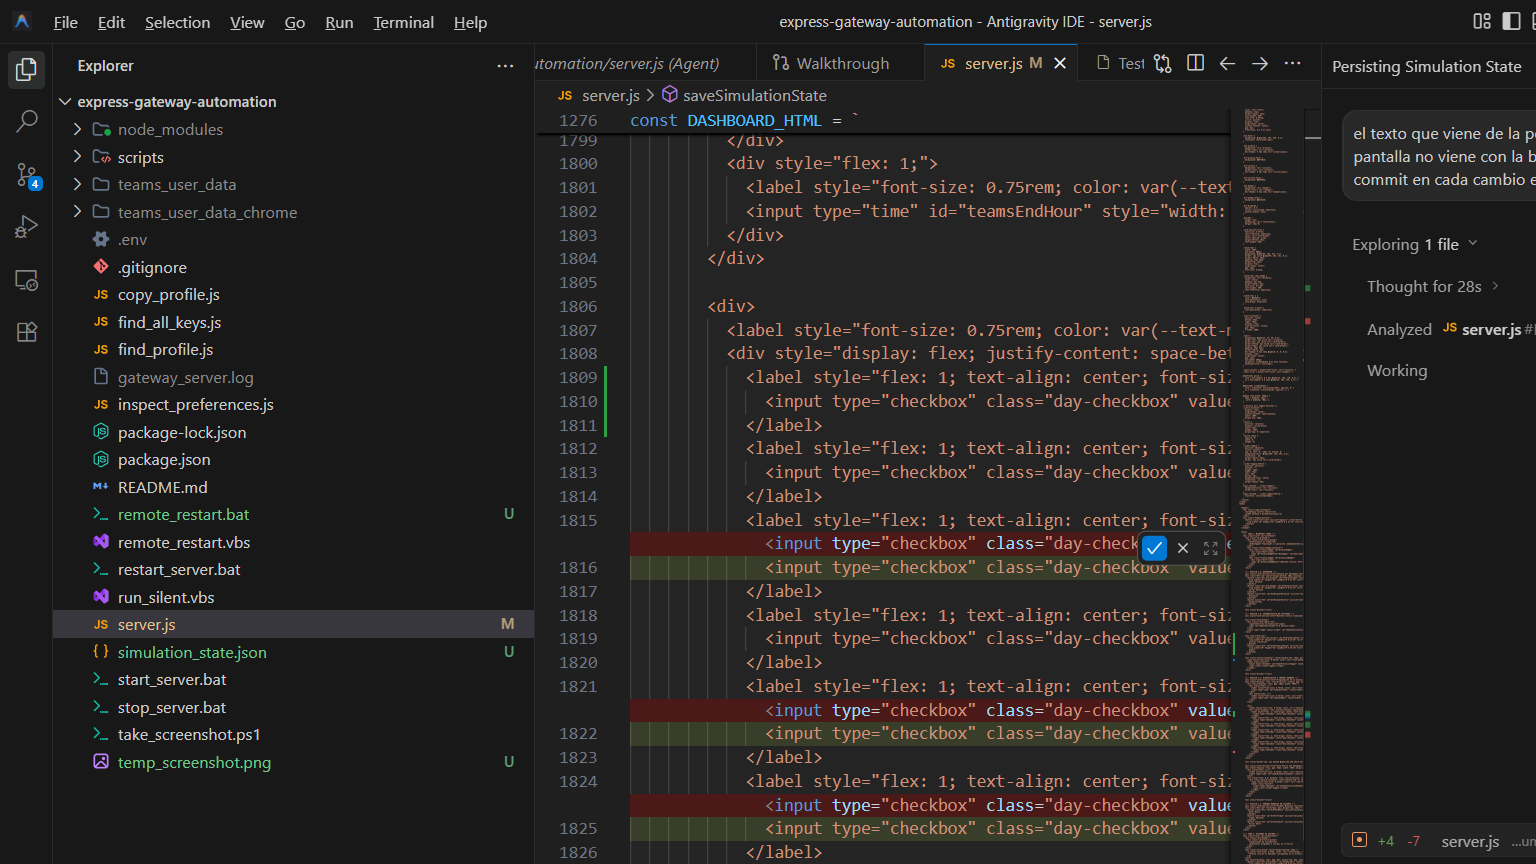
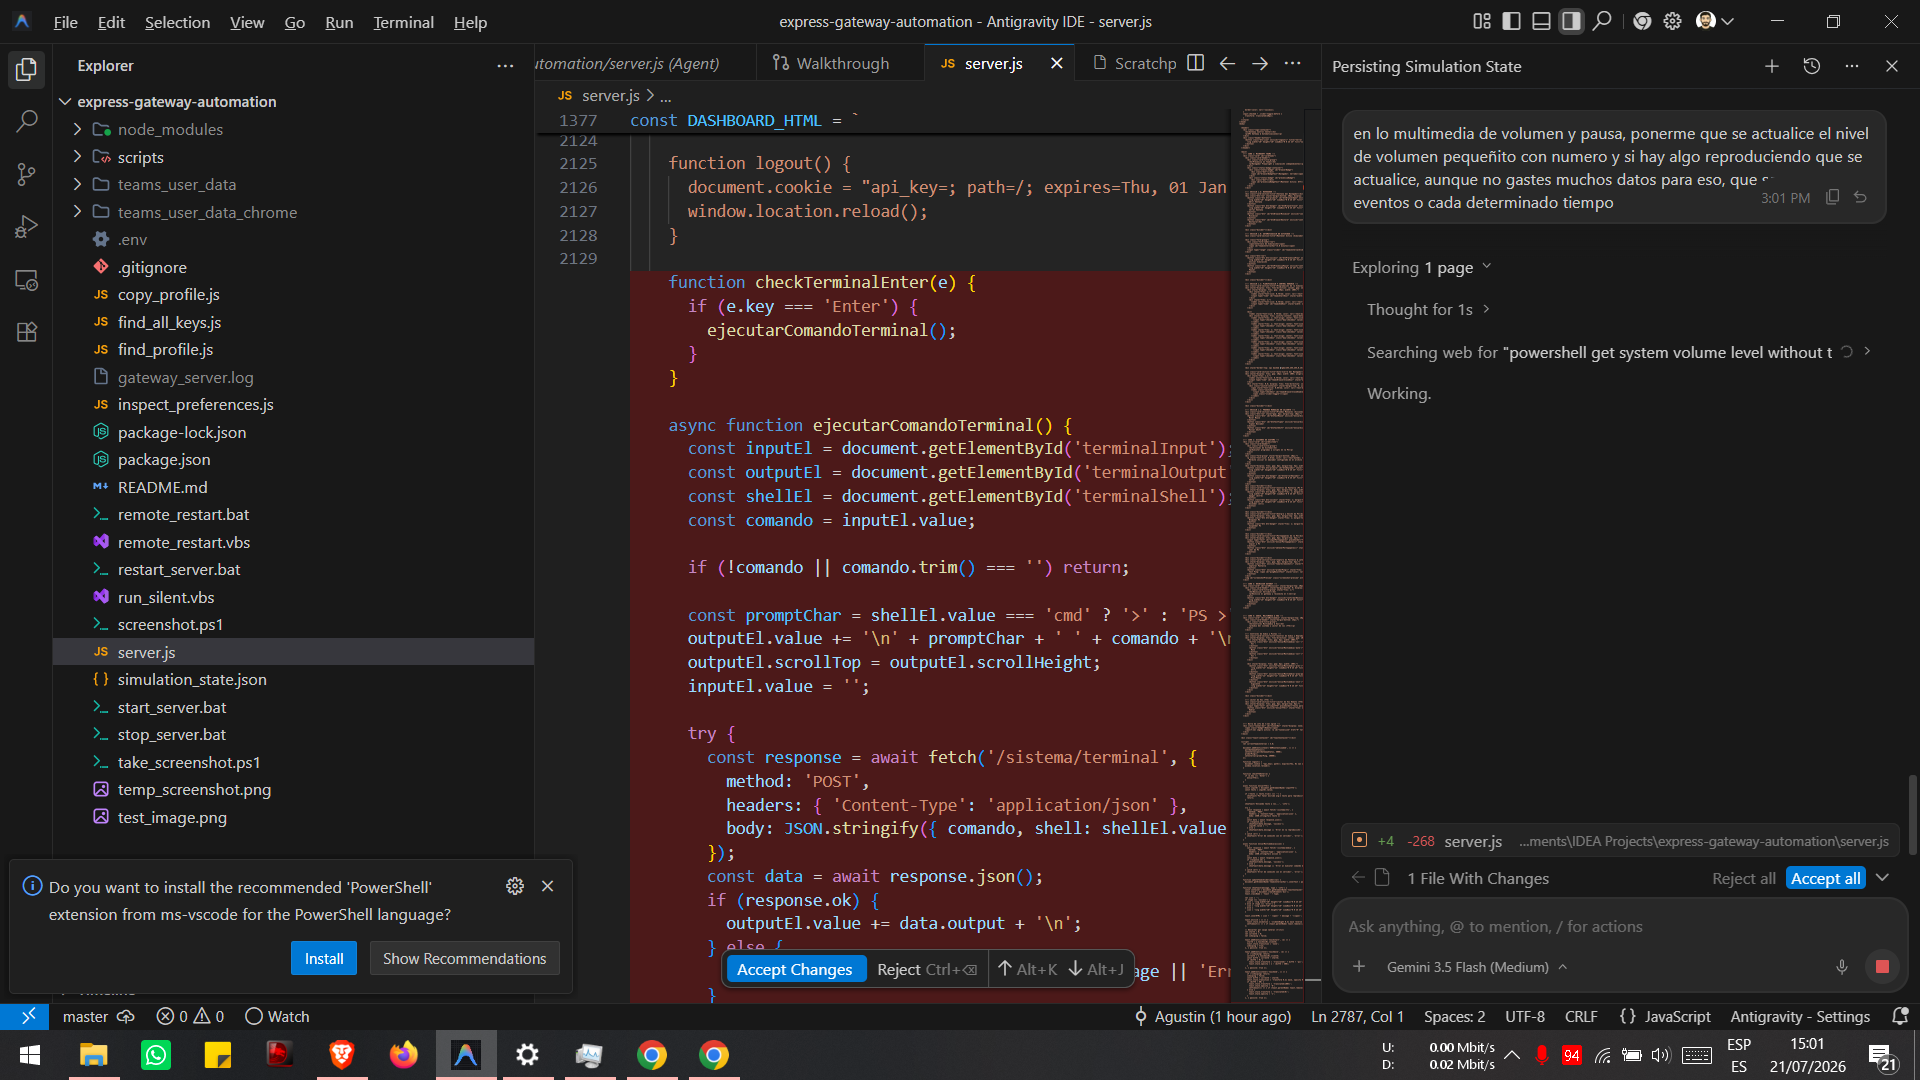
feat: show volume and playing status in multimedia card and improve toast swipe gestures

diff --git a/server.js b/server.js
@@ -338,17 +338,29 @@ function handleManualCloseCleanup() {
 
 // Endpoint GET /gateway/status
 app.get('/gateway/status', (req, res) => {
-  res.json({
-    browserBrowserAbierto,
-    browserPresenciaActiva,
-    browserIntervalMs,
-    browserSimulacionStartHour,
-    browserSimulacionEndHour,
-    browserSimulacionDays,
-    browserBrowserCloseHour,
-    browserBrowserCloseEnabled,
-    ngrokUrl: ngrokUrl || 'Inactivo',
-    hasEmulatorPath: !!process.env.EMULATOR_BAT_PATH
+  const helperPath = path.join(__dirname, 'AudioHelper.exe');
+  exec(`"${helperPath}"`, { timeout: 1500 }, (error, stdout) => {
+    let audioData = { volume: null, muted: null, playing: null };
+    if (!error && stdout) {
+      try {
+        audioData = JSON.parse(stdout.trim());
+      } catch (e) {}
+    }
+    res.json({
+      browserBrowserAbierto,
+      browserPresenciaActiva,
+      browserIntervalMs,
+      browserSimulacionStartHour,
+      browserSimulacionEndHour,
+      browserSimulacionDays,
+      browserBrowserCloseHour,
+      browserBrowserCloseEnabled,
+      ngrokUrl: ngrokUrl || 'Inactivo',
+      hasEmulatorPath: !!process.env.EMULATOR_BAT_PATH,
+      audioVolume: audioData.volume,
+      audioMuted: audioData.muted,
+      audioPlaying: audioData.playing
+    });
   });
 });
 
@@ -2059,7 +2071,10 @@ const DASHBOARD_HTML = `
       </div>
       
       <!-- Controles de Audio y Pistas -->
-      <div class="card-section-title">Control de Audio y Reproducción</div>
+      <div style="display: flex; justify-content: space-between; align-items: center;">
+        <div class="card-section-title" style="margin-bottom: 0;">Control de Audio y Reproducción</div>
+        <div id="audioStatusText" style="font-size: 0.72rem; color: var(--text-muted); font-weight: 500; letter-spacing: 0.3px;">Volumen: --% | --</div>
+      </div>
       <div style="display: flex; flex-direction: column; gap: 10px; margin-top: 8px;">
         <div style="display: flex; gap: 8px; width: 100%;">
           <button class="btn" onclick="enviarMultimedia('vol-')" style="flex: 1; margin-top: 0; padding: 10px; font-size: 0.8rem; background: rgba(255,255,255,0.05); border: 1px solid var(--card-border); color: var(--text);">
@@ -2215,17 +2230,20 @@ const DASHBOARD_HTML = `
         startX = e.touches[0].clientX;
         toast.style.transition = 'none';
         isSwiping = true;
-      }, { passive: true });
+      }, { passive: false });
 
       toast.addEventListener('touchmove', (e) => {
         if (!isSwiping) return;
         currentX = e.touches[0].clientX;
         const diffX = currentX - startX;
         if (diffX > 0) {
+          // Prevenir el scroll y overscroll del navegador para que no mueva la página
+          if (e.cancelable) e.preventDefault();
+          e.stopPropagation();
           toast.style.transform = 'translateX(' + diffX + 'px)';
           toast.style.opacity = 1 - (diffX / 300);
         }
-      }, { passive: true });
+      }, { passive: false });
 
       toast.addEventListener('touchend', () => {
         if (!isSwiping) return;
@@ -2240,7 +2258,7 @@ const DASHBOARD_HTML = `
           toast.style.transform = 'translateX(0)';
           toast.style.opacity = '1';
         }
-      }, { passive: true });
+      }, { passive: false });
 
       container.appendChild(toast);
       
@@ -2379,6 +2397,20 @@ const DASHBOARD_HTML = `
           link.innerText = data.ngrokUrl;
         } else {
           tunnelBar.style.display = 'none';
+        }
+
+        // Actualizar estado de Audio y Reproducción
+        const audioTextEl = document.getElementById('audioStatusText');
+        if (audioTextEl && data.audioVolume !== undefined && data.audioVolume !== null) {
+          const vol = data.audioVolume;
+          const muted = data.audioMuted;
+          const playing = data.audioPlaying;
+          let statusStr = 'Volumen: ' + vol + '%';
+          if (muted) {
+            statusStr += ' (Silenciado)';
+          }
+          statusStr += ' | ' + (playing ? '▶ Reproduciendo' : '⏸ Pausado');
+          audioTextEl.innerText = statusStr;
         }
 
       } catch (err) {

diff --git a/AudioHelper.cs b/AudioHelper.cs
@@ -1,0 +1,81 @@
+using System;
+using System.Runtime.InteropServices;
+
+namespace AudioHelper {
+    [Guid("5CDF2C82-841E-4546-9722-0CF74078229A"), InterfaceType(ComInterfaceType.InterfaceIsIUnknown)]
+    interface IAudioEndpointVolume {
+        int RegisterControlChangeNotify(IntPtr pNotify);
+        int UnregisterControlChangeNotify(IntPtr pNotify);
+        int GetChannelCount(out uint pnChannelCount);
+        int SetMasterVolumeLevel(float fLevelDB, ref Guid pguidEventContext);
+        int SetMasterVolumeLevelScalar(float fLevel, ref Guid pguidEventContext);
+        int GetMasterVolumeLevel(out float pfLevelDB);
+        int GetMasterVolumeLevelScalar(out float pfLevel);
+        int SetChannelVolumeLevel(uint nChannel, float fLevelDB, ref Guid pguidEventContext);
+        int SetChannelVolumeLevelScalar(uint nChannel, float fLevel, ref Guid pguidEventContext);
+        int GetChannelVolumeLevel(uint nChannel, out float pfLevelDB);
+        int GetChannelVolumeLevelScalar(uint nChannel, out float pfLevel);
+        int SetMute([MarshalAs(UnmanagedType.Bool)] bool bMute, ref Guid pguidEventContext);
+        int GetMute([MarshalAs(UnmanagedType.Bool)] out bool pbMute);
+        int GetVolumeStepInfo(out uint pnStep, out uint pnStepCount);
+        int VolumeStepUp(ref Guid pguidEventContext);
+        int VolumeStepDown(ref Guid pguidEventContext);
+        int QueryHardwareSupport(out uint pdwHardwareSupport);
+    }
+
+    [Guid("C02216F6-8C67-4B5B-9786-D5C4DF585117"), InterfaceType(ComInterfaceType.InterfaceIsIUnknown)]
+    interface IAudioMeterInformation {
+        int GetPeakValue(out float pfPeak);
+    }
+
+    [Guid("D666063F-1587-4E43-81F1-B948E807363F"), InterfaceType(ComInterfaceType.InterfaceIsIUnknown)]
+    interface IMMDevice {
+        int Activate(ref Guid id, uint clsCtx, IntPtr activationParams, [MarshalAs(UnmanagedType.IUnknown)] out object value);
+    }
+
+    [Guid("A95664D2-9614-4F35-A746-DE8DB63617E6"), InterfaceType(ComInterfaceType.InterfaceIsIUnknown)]
+    interface IMMDeviceEnumerator {
+        int EnumAudioEndpoints(int dataFlow, uint stateMask, out IntPtr ppDevices);
+        int GetDefaultAudioEndpoint(int dataFlow, int role, out IMMDevice endpoint);
+    }
+
+    [ComImport, Guid("BCDE0395-E52F-467C-8E3D-C4579291692E")]
+    class MMDeviceEnumeratorComObject { }
+
+    class Program {
+        static void Main() {
+            try {
+                var enumerator = new MMDeviceEnumeratorComObject() as IMMDeviceEnumerator;
+                IMMDevice dev;
+                enumerator.GetDefaultAudioEndpoint(0, 1, out dev);
+
+                object volObj;
+                var volId = new Guid("5CDF2C82-841E-4546-9722-0CF74078229A");
+                dev.Activate(ref volId, 23, IntPtr.Zero, out volObj);
+                var volumeEndpoint = volObj as IAudioEndpointVolume;
+
+                float volLevel = 0;
+                volumeEndpoint.GetMasterVolumeLevelScalar(out volLevel);
+                bool isMuted = false;
+                volumeEndpoint.GetMute(out isMuted);
+
+                object meterObj;
+                var meterId = new Guid("C02216F6-8C67-4B5B-9786-D5C4DF585117");
+                dev.Activate(ref meterId, 23, IntPtr.Zero, out meterObj);
+                var meter = meterObj as IAudioMeterInformation;
+
+                float peakValue = 0;
+                meter.GetPeakValue(out peakValue);
+
+                bool isPlaying = peakValue > 0.005f;
+
+                Console.WriteLine("{{\"volume\":{0},\"muted\":{1},\"playing\":{2}}}", 
+                    Math.Round(volLevel * 100), 
+                    isMuted.ToString().ToLower(), 
+                    isPlaying.ToString().ToLower());
+            } catch (Exception ex) {
+                Console.WriteLine("{{\"error\":\"{0}\"}}", ex.Message.Replace("\"", "\\\""));
+            }
+        }
+    }
+}
